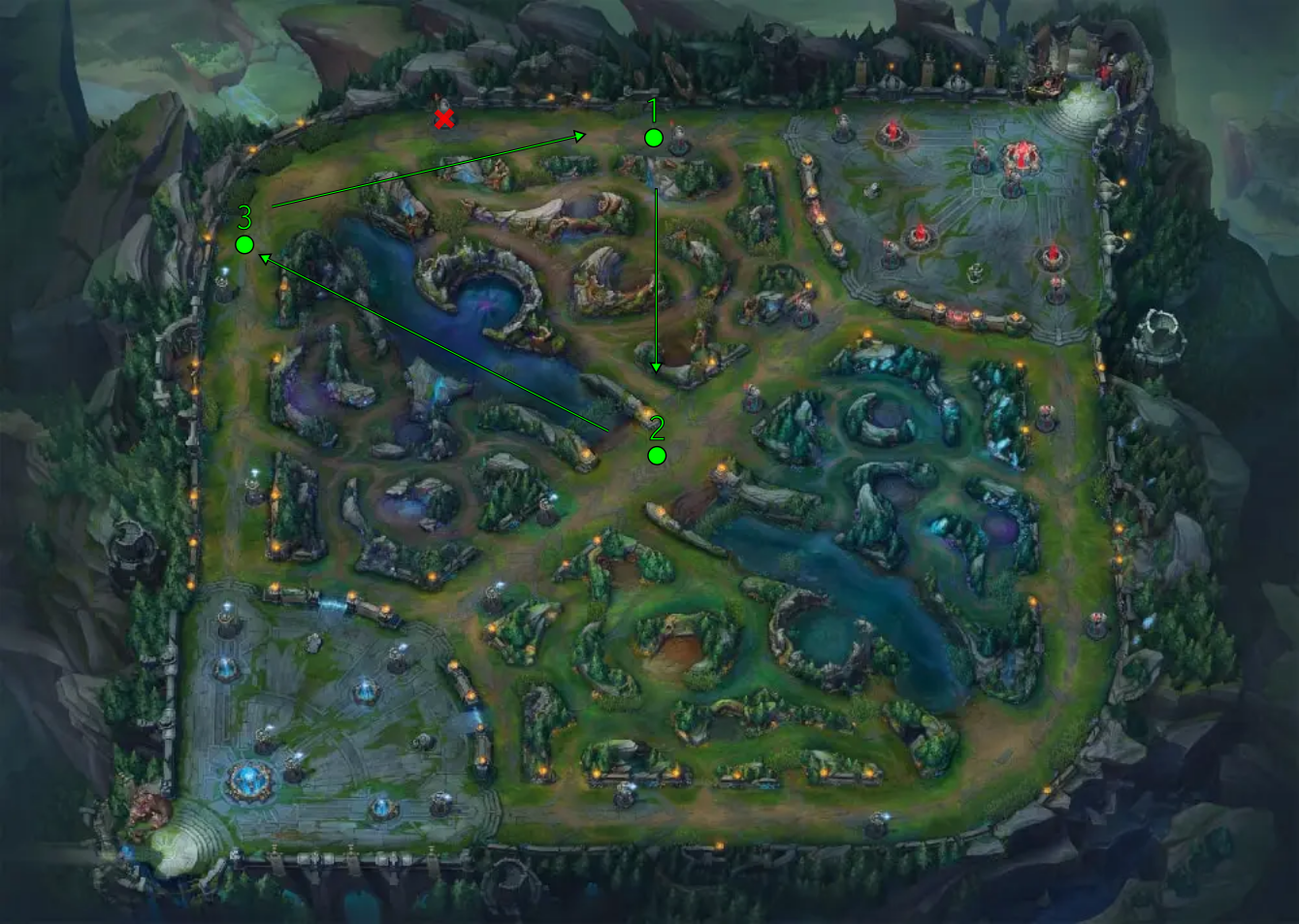
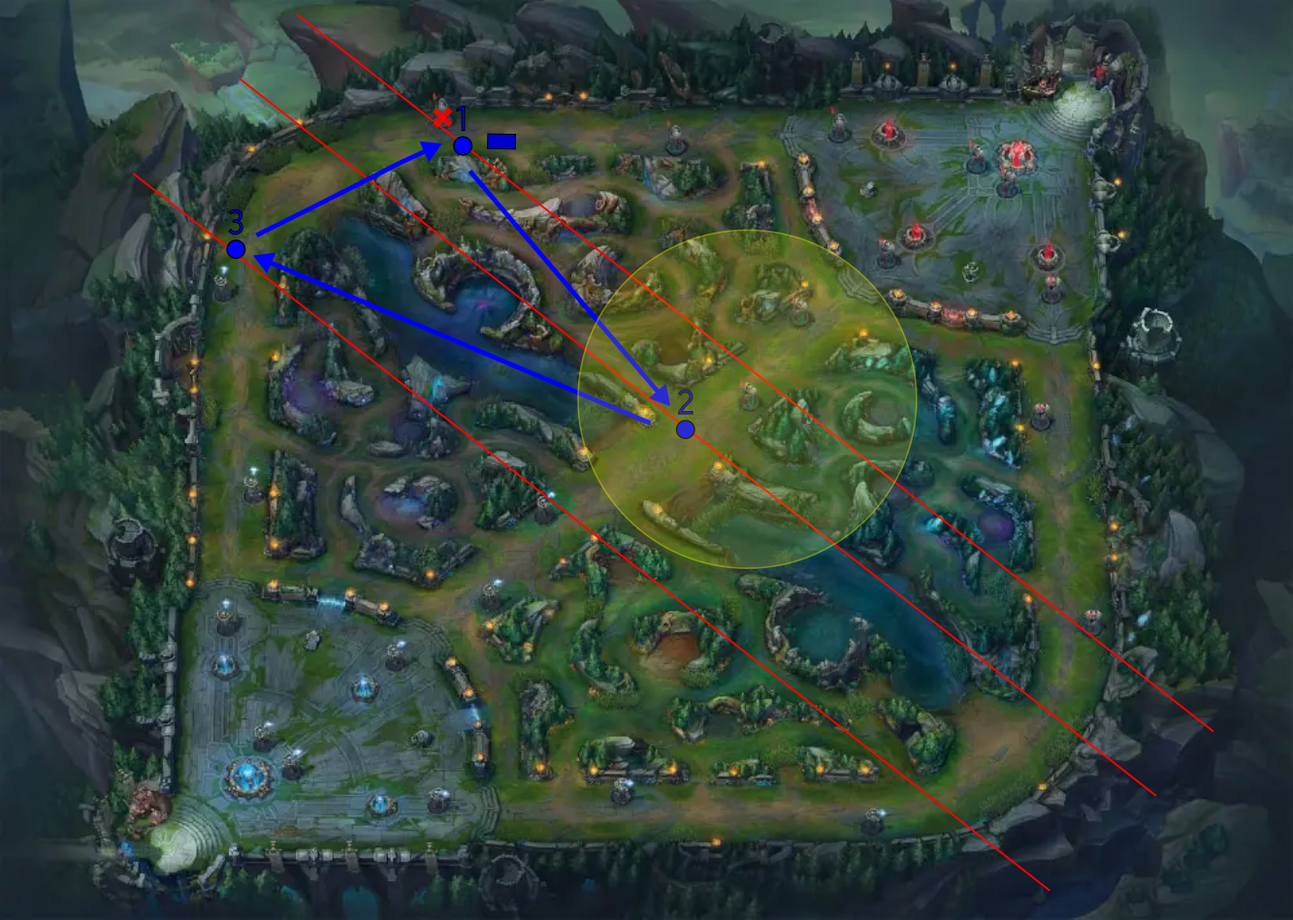
Review the "Map control" section

diff --git a/manuscript/Macromanagement/map-control.md b/manuscript/Macromanagement/map-control.md
@@ -400,21 +400,31 @@ I> **Угроза** — это действие игрока или команд
 
 >>>R1
 
-Сплит-пуш — это самый распространённый приём, который игроки исполняют на боковой линии. Он кажется простым, но на практике его редко выполняют правильно.
+Сплит-пуш — основной приём для игры на боковой линии. Он кажется простым, но на практике его редко выполняют правильно.
 
 I> Профессиональный игрок Jake Sharwood объясняет, как правильно выполнять сплит-пуш в [следующем видео](https://www.youtube.com/watch?v=TiCeoxQYCuk).
 
-Сплит-пуш может закончиться неудачно по нескольким причинам. Есть два типичных сценария, по которым это происходит.
+Большинство игроков исполняют сплит-пуш по следующему алгоритму:
 
-**Первый сценарий** — игрок выполняет push и забирает башни на боковых линиях. Противники игнорируют эти угрозы. Они контестят объекты с численным преимуществом в других частях карты. В результате команда игрока несколько раз погибает в сражениях.
+1. Выполнить fast push и креш союзной волны во вражескую башню.
+
+2. Атаковать вражескую башню.
+
+3. После разрушения башни сделать recall.
+
+4. Вернуться на ту же линию и повторить действия, начиная с шага 1.
+
+Такой план часто заканчивается неудачно по нескольким причинам. Есть два типичных сценария, по которым это происходит.
+
+**Первый сценарий** — игрок выполняет сплит-пуш и забирает башни на боковых линиях. Противники игнорируют эти угрозы. Они контестят объекты с численным преимуществом в других частях карты. В результате команда игрока несколько раз погибает в сражениях.
 
 Такой сплит-пуш будет невыгоден. Противники получают объекты и награды за убийства. С другой стороны, только игрок получает ресурсы в своей команде. Но он никак их не реализует, потому что не участвует в командных действиях.
 
-**Второй сценарий** — игрок выполняет push на боковой линии. Противники реагируют на угрозу и атакуют игрока вдвоём или втроём. В это время союзники получают темп на каком-то объекте, но не реализуют его.
+**Второй сценарий** — игрок выполняет сплит-пуш на боковой линии. Противники реагируют на угрозу и атакуют игрока вдвоём или втроём. В это время союзники получают темп на каком-то объекте, но не реализуют его.
 
 Такой сплит-пуш тоже невыгоден. Противники получают награду за убийство игрока, а затем контестят очередной объект с численным преимуществом.
 
-Если игрок выполняет сплит-пуш правильно, он сможет избежать эти сценарии. Рассмотрим, как это сделать.
+Эти сценарии можно избежать, если комбинировать сплит-пуш с некоторыми приёмами. Они позволяют усилить давление на противников, присоединяться к командным действиям, получать больше ресурсов и избегать гангов.
 
 #### 4.3.3.2 Перенос давления на другую линию
 
@@ -475,48 +485,57 @@ I> Профессиональный игрок Jake Sharwood объясняет,
 
 3. Вражеский топлейнер будет убит.
 
-Перенос давления на другую линию решает сразу несколько задач. Поэтому его часто применяют во время сплит-пуша на боковой линии. Он особенно эффективен, когда вражеских чемпионов не видно на карте.
+Перенос давления на другую линию решает сразу несколько задач. Поэтому его часто применяют во время сплит-пуша на боковой линии. Он особенно эффективен, когда вражеских чемпионов не видно на карте и есть опасность ганга.
 
 #### 4.3.3.2 Ротация треугольник
 
 >>>W
 
-Допустим, что игрок попробовал создать угрозу с помощью сплит-пуш. Вражеская команда отреагировала на него правильно, а союзники — нет. В этом случае нет смысла повторять сплит-пуш. Игроку стоит попробовать другие приёмы для создания угрозы. Один из них называется **ротация треугольник**.
+При исполнении сплит-пуша важно учитывать базовые концепции позиционирования на карте:
+
+* Зона доступности
+* Диагонали темпа.
+
+Когда игрок постоянно выполняет fast push и остаётся на боковой линии, он нарушает обе концепции. Это не позволяет ему присоединяться к командным действиям и делает его уязвимым для гангов. Чтобы избежать этих проблем, игрок должен выполнять ротации. Стандартная называется **ротация треугольник**.
 
 Ротация треугольник выполняется, когда разрушена одна или обе Т1 башни на линии. Этот приём состоит из трёх шагов:
 
-1. Выполнить push волны на своей линии так, чтобы фронт столкновения оказался на стороне карты противника как можно дальше.
+1. Выполнить fast push на боковой линии так, чтобы чемпион оказался на front tempo с большинством союзников.
 
-2. Сместиться на соседнюю линию или на объект, чтобы принять участие в командном действии.
+2. Сместить к союзникам на той же диагонали темпа, чтобы оказаться в зоне их доступности.
 
-3. Вернуться на свою линию и принять вражескую волну под своей башней.
+3. Искать командное действие: взятие объекта, ганг, засада и т.д.
 
-Эту ротацию можно повторять несколько раз. Тогда после шага 3 следует снова начать с шага 1.
+4. Если командного действия не произошло, вернуться на боковую линию и принять вражескую волну на своей стороне карты.
 
-Иллюстрация 4-16 демонстрирует действия игрока для исполнении ротации треугольник.
+Ротация треугольник обычно начинается с fast push на боковой линии, но её так же можно начинать и на средней линии. Тогда после командного действия игрок возвращается на неё же.
 
-{caption: "Иллюстрация 4-16. Действия для исполнении ротации треугольник", width: "100%"}
+Иллюстрация 4-17 демонстрирует действия игрока для исполнении ротации треугольник.
+
+{caption: "Иллюстрация 4-17. Ротация треугольник", width: "100%"}
 ![Ротации треугольник](images/Macromanagement/rotation-triangle.png)
 
-Ротацию выполняет синий топлейнер. Он разрушил Т1 башню противника на верхней линии. При этом его Т1 башня ещё стоит.
+Ротацию выполняет синий топлейнер. Он разрушил Т1 башню противника на верхней линии. При этом его Т1 башня ещё стоит. Все остальные синие чемпионы находятся на средней лини в точке с номером 2. Они осаждают красную Т1.
 
-**Первое действие** игрока отмечено зелёной точкой с номером 1. Это пуш союзных миньонов на сторону карты противника. Если противника нет на линии, надо сделать креш во вражескую Т2 башню. Зелёная стрелка обозначает движение игрока и его волны.
+**Первое действие** игрока отмечено синей точкой с номером 1. Это пуш союзных миньонов на сторону карты противника. Если противника нет на линии, можно сделать креш во вражескую Т2 башню. Синяя стрелка обозначает движение игрока и его волны. В результате игрок может оказаться на front tempo один. Это опасно, поэтому задерживаться в этой позиции нельзя.
 
-**Второе действие** — ротация к месту очередного командного действия. Например, это может быть контест барона или дракона, ганг на среднюю линию, инвейд вражеского леса или телепорт на нижнюю линию для дайва. Если на карте нет командного действия, игрок может сделать recall.
+**Второе действие** — ротация в сторону союзников. Игрок должен оказаться с ними на одной диагонали темпа. При этом он должен попасть в зону доступности очередного объекта. На иллюстрации 4-17 союзники атакуют красную Т1 башню на средней линии. Поэтому задача игрока — оказаться в её зоне доступности. Она отмечена жёлтым кругом.
 
-**Третье действие** — вернуться к своей Т1 башне. Пока игрока не было на линии, фронт столкновения вернулся под его Т1 башню. Это произойдёт из-за пуша противника или из-за правила равенства миньонов. Игрок забирает вражескую волну. Дальше он может повторить ротацию треугольник или выполнить другой приём.
+**Третье действие** — вернуться к Т1 башне на верхней линии. Эта позиция отмечена точкой с номером 3. Пока игрока не было на линии, фронт столкновения миньонов отпушился на back tempo под Т1 башню. Задача игрока — вернуть фронт столкновения на диагональ front tempo в точке 1 или сделать креш в Т2 башню противника.
 
-Ротация треугольник создаёт несколько угроз:
+Ротация треугольник приводит к следующим результатам:
 
-1. Противник теряет фарм, потому что его Т2 башня убивает миньонов.
+1. Противники теряют фарм на верхней линии из-за креша.
 
-2. Вражеская Т2 башня получает урон от миньонов.
+2. Вражеская Т2 башня на верхней линии теряет здоровье.
 
 3. Выполняющий ротацию игрок может атаковать с тыла (flanking) в командном сражении.
 
-4. Выполняющий ротацию игрок может создать численное преимущество в контесте объекта.
+4. Выполняющий ротацию игрок может создать численное преимущество на контесте объекта.
 
-Чтобы отреагировать на ротацию треугольник, противник должен сместиться к своей Т2 башне, забрать волну и отпушить линию фронта на сторону карты игрока. Обычно опытные игроки выполняют ротацию треугольник по очереди: сначала пушит и смещается один, потом другой.
+5. Игрок избежал ганга на верхней линии.
+
+Правильная реакция на ротацию треугольник — это такая же ротация треугольник. Противник смещается к своей Т2 башне на верхней линии. Он забирает волну и толкает фронт столкновения миньонов на диагональ front tempo. После этого противник возвращается к своей команде. Обычно опытные игроки выполняют ротацию треугольник по очереди: сначала пушит и смещается один, потом другой.
 
 Ротацию треугольник можно выполнять игроку на любой линии. Алгоритм действий для средней и нижней линии будет таким же, как для верхней.
 

diff --git a/manuscript/Macromanagement/game-theory.md b/manuscript/Macromanagement/game-theory.md
@@ -323,7 +323,9 @@ I> **Пассивное золото** (passive gold) — это золото в
 
 Просто зайдя в кусты, противник поставил игрока в сложную ситуацию. Он должен выбрать одно из двух: оставаться на линии или делать recall. В случае ошибки противник получает преимущество. Он или разбивает freeze, или возвращается после recall с предметом.
 
-I> В League of Legends есть механики, которые дают право на ошибку в рассмотренной координационной игре. Например, заклинание призывателя телепорт. Игрок может сделать recall по ошибке, когда его оппонент остался на линии. Тогда он применит телепорт и быстро вернётся обратно.
+I> Всегда заходите в кусты и начинайте анимацию recall, если не знаете, что делать, или вам нужно время на подумать. Отменяйте анимацию recall, если ситуация изменилась или вы решили остаться на карте.
+
+В League of Legends есть механики, которые дают право на ошибку в рассмотренной координационной игре. Например, заклинание призывателя телепорт. Игрок может сделать recall по ошибке, когда его оппонент остался на линии. Тогда он применит телепорт и быстро вернётся обратно.
 
 #### 4.2.3.3 Решение координационной игры
 
